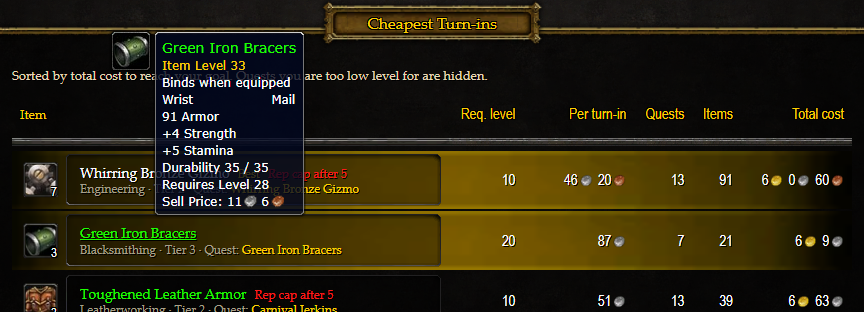
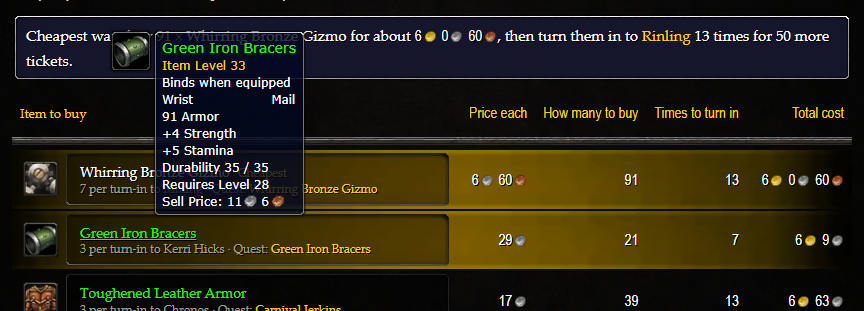
Simplify the web page for basic users
- Three numbered steps: load your prices, choose your reward, buy and turn in
- Only three inputs: reward, character level, tickets you already have;
  realm picker shows only when the file has more than one realm
- Removed "Show results", category, reputation and rep-cap inputs/warnings
  (reputation caps stay available in the CLI)
- Results start with a one-sentence answer and use plain columns:
  price each, how many to buy, times to turn in, total cost, plus the NPC
- Handles "already have enough tickets"
- README: describe the steps; refreshed screenshots

diff --git a/components/filters.js b/components/filters.js
@@ -1,5 +1,6 @@
-// Filters component: character level, tickets, goal (with its reward item), reputation, category,
-// realm, row limit and the reputation-cap toggle. Calls onChange(values, changedField).
+// "What do you want?" component: the reward to buy (with its preview), character level and tickets
+// already owned. A realm picker appears only when the loaded file has prices for more than one realm.
+// Calls onChange(values, changedField).
 (() => {
   const UI = (window.UI = window.UI || {});
 
@@ -8,48 +9,33 @@
     return Number.isFinite(n) && v !== "" ? n : fallback;
   };
 
-  UI.filters = function filters(root, {goals, defaultGoal, categories, maxLevel, onChange}) {
+  UI.filters = function filters(root, {goals, defaultGoal, maxLevel, onChange}) {
     root.innerHTML = `
       <div class="filters">
-        <label class="field">
-          <span class="field__label">Character level</span>
-          <input class="input" name="level" type="number" min="1" max="${maxLevel}" value="${maxLevel}">
-        </label>
-        <label class="field">
-          <span class="field__label">Tickets you have</span>
-          <input class="input" name="tickets" type="number" min="0" value="0">
-        </label>
-        <label class="field">
-          <span class="field__label">Faire reputation</span>
-          <input class="input" name="rep" type="number" min="0" value="0">
-        </label>
-        <label class="field">
-          <span class="field__label">Show results</span>
-          <input class="input" name="limit" type="number" min="1" max="50" value="10">
-        </label>
-        <label class="field filters__wide">
-          <span class="field__label">Goal</span>
+        <label class="field filters__goal">
+          <span class="field__label">Reward you want</span>
           <select class="select" name="goal"></select>
         </label>
-        <label class="field">
-          <span class="field__label">Category</span>
-          <select class="select" name="category"><option value="">All</option></select>
-        </label>
-        <label class="field">
-          <span class="field__label">Realm</span>
-          <select class="select" name="realm" disabled><option>Load a file first</option></select>
-        </label>
-        <label class="checkbox filters__check">
-          <input name="strict" type="checkbox">
-          <span>Respect reputation caps</span>
-        </label>
         <div class="reward" data-ref="reward" aria-live="polite"></div>
+        <label class="field">
+          <span class="field__label">Your character level</span>
+          <input class="input" name="level" type="number" min="1" max="${maxLevel}" value="${maxLevel}" inputmode="numeric">
+          <span class="field__hint">Hides turn-ins you are too low level for.</span>
+        </label>
+        <label class="field">
+          <span class="field__label">Prize tickets you already have</span>
+          <input class="input" name="tickets" type="number" min="0" value="0" inputmode="numeric">
+          <span class="field__hint">Leave at 0 if you have none.</span>
+        </label>
+        <label class="field" data-ref="realm-field" hidden>
+          <span class="field__label">Use prices from realm</span>
+          <select class="select" name="realm"></select>
+        </label>
       </div>`;
 
     const el = name => root.querySelector(`[name="${name}"]`);
     const goalByKey = Object.fromEntries(goals.map(g => [g.key, g]));
     goals.forEach(g => el("goal").add(new Option(`${g.name} (${g.tickets} tickets)`, g.key, false, g.key === defaultGoal)));
-    categories.forEach(c => el("category").add(new Option(c, c)));
 
     // Reward preview for the selected goal, like a quest reward box: icon, item link, redemption quest.
     function renderReward() {
@@ -60,7 +46,7 @@
           ${UI.wowhead.itemIcon(g)}
           <span class="item__name">
             <span>${UI.wowhead.itemLink(g)}</span>
-            <span class="item__meta">${g.tickets} Prize Tickets &middot; Quest: ${UI.wowhead.questLink({id: g.questId, name: `${g.tickets} Tickets - ${g.name}`})}</span>
+            <span class="item__meta">Costs ${g.tickets} Prize Tickets &middot; Quest: ${UI.wowhead.questLink({id: g.questId, name: `${g.tickets} Tickets - ${g.name}`})}</span>
           </span>
         </div>`;
     }
@@ -74,15 +60,13 @@
     root.addEventListener("change", e => e.target.name === "realm" && onChange(values(), "realm"));
 
     function values() {
+      const goal = goalByKey[el("goal").value];
       return {
+        goal,
+        target: goal.tickets,
         level: Math.min(maxLevel, Math.max(1, int(el("level").value, maxLevel))),
         tickets: Math.max(0, int(el("tickets").value, 0)),
-        rep: Math.max(0, int(el("rep").value, 0)),
-        limit: Math.max(1, int(el("limit").value, 10)),
-        target: goalByKey[el("goal").value].tickets,
-        category: el("category").value,
-        realm: el("realm").disabled ? null : el("realm").value,
-        strict: el("strict").checked,
+        realm: el("realm").options.length ? el("realm").value : null,
       };
     }
 
@@ -92,7 +76,7 @@
         const sel = el("realm");
         sel.innerHTML = "";
         names.forEach(n => sel.add(new Option(n, n)));
-        sel.disabled = !names.length;
+        root.querySelector('[data-ref="realm-field"]').hidden = names.length < 2;
       },
     };
   };

diff --git a/components/results-table.js b/components/results-table.js
@@ -1,4 +1,5 @@
-// Results table component: auction-house style list of the cheapest turn-ins.
+// Results component: a one-sentence answer, then an auction-house style list of every turn-in option,
+// cheapest first.
 (() => {
   const UI = (window.UI = window.UI || {});
   const {esc, wowhead} = UI;
@@ -12,17 +13,14 @@
 
   function itemCell(r, isBest) {
     const tags = [];
-    if (isBest) tags.push('<span class="tag tag--best">Best</span>');
-    if (!r.live) tags.push('<span class="tag tag--muted" title="No Auctionator price. Scan this item at the auction house.">No AH price</span>');
-    if (r.overCap) {
-      tags.push(`<span class="tag tag--warn" title="Tier ${r.tier} reputation caps after ${r.untilCap} quests. Check whether turn-ins past the cap still give tickets.">Rep cap after ${r.untilCap}</span>`);
-    }
+    if (isBest) tags.push('<span class="tag tag--best">Cheapest</span>');
+    if (!r.live) tags.push('<span class="tag tag--muted" title="Your Auctionator file has no price for this item. Search for it at the auction house, then /reload.">No price yet</span>');
     return `
       <div class="item">
-        ${wowhead.itemIcon(r, {count: r.qnt, category: r.category})}
+        ${wowhead.itemIcon(r, {category: r.category})}
         <span class="item__name">
           <span>${wowhead.itemLink(r)}${tags.join("")}</span>
-          <span class="item__meta">${esc(r.category)} &middot; Tier ${r.tier} &middot; ${questsLine(r)}</span>
+          <span class="item__meta">${r.qnt} per turn-in to ${esc(r.npc)} &middot; ${questsLine(r)}</span>
         </span>
       </div>`;
   }
@@ -31,15 +29,15 @@
 
   UI.resultsTable = function resultsTable(root) {
     root.innerHTML = `
+      <div class="summary tooltip" data-ref="summary" role="status" aria-live="polite"></div>
       <div class="table-wrap">
         <table class="ah-table">
           <thead>
             <tr>
-              <th scope="col">Item</th>
-              <th scope="col" class="num">Req. level</th>
-              <th scope="col" class="num">Per turn-in</th>
-              <th scope="col" class="num">Quests</th>
-              <th scope="col" class="num">Items</th>
+              <th scope="col">Item to buy</th>
+              <th scope="col" class="num">Price each</th>
+              <th scope="col" class="num">How many to buy</th>
+              <th scope="col" class="num">Times to turn in</th>
               <th scope="col" class="num">Total cost</th>
             </tr>
           </thead>
@@ -47,22 +45,34 @@
         </table>
       </div>`;
     const body = root.querySelector("tbody");
+    const summary = root.querySelector('[data-ref="summary"]');
 
     return {
-      render(rows, {limit, level, unlockLevels}) {
-        if (!rows.length) {
-          body.innerHTML = `<tr class="empty"><td colspan="6">No turn-ins available at level ${level} with these filters. Quests unlock at levels ${unlockLevels.join(", ")}.</td></tr>`;
+      render(rows, {goal, needed, hasPrices}) {
+        if (needed <= 0) {
+          summary.innerHTML = `You already have enough tickets for ${wowhead.itemLink(goal)}. Take them to Gelvas Grimegate at the Darkmoon Faire.`;
+          body.innerHTML = "";
           return;
         }
-        body.innerHTML = rows.slice(0, limit).map((r, i) => {
-          const best = i === 0 && r.total != null;
+        const best = rows.find(r => r.total != null);
+        if (!hasPrices) {
+          summary.textContent = "Load your Auctionator.lua in step 1 to see which turn-in is cheapest.";
+        } else if (best) {
+          summary.innerHTML = `Cheapest way: buy <strong>${best.items} &times; ${wowhead.itemLink(best)}</strong>
+            for about ${UI.money(best.total * 10000)}, then turn them in to <strong>${esc(best.npc)}</strong>
+            ${best.quests} time${best.quests === 1 ? "" : "s"} for ${needed} more ticket${needed === 1 ? "" : "s"}.`;
+        } else {
+          summary.textContent = "None of these items has a price in your Auctionator file yet. Search for them at the auction house, then /reload.";
+        }
+
+        body.innerHTML = rows.map(r => {
+          const isBest = r === best;
           return `
-          <tr class="${best ? "is-best" : ""}">
-            <td>${itemCell(r, best)}</td>
-            <td class="num level-req">${r.minLevel}</td>
-            <td class="num">${money(r.perTurn, 100)}</td>
-            <td class="num">${r.quests}</td>
+          <tr class="${isBest ? "is-best" : ""}">
+            <td>${itemCell(r, isBest)}</td>
+            <td class="num">${money(r.price, 100)}</td>
             <td class="num">${r.items}</td>
+            <td class="num">${r.quests}</td>
             <td class="num">${money(r.total, 10000)}</td>
           </tr>`;
         }).join("");

diff --git a/app.js b/app.js
@@ -1,6 +1,6 @@
 // App wiring: connects dmf.js (data + maths) to the UI components.
 (() => {
-  const {ITEMS, GOALS, MIN_LEVEL, MAX_LEVEL} = DMF;
+  const {ITEMS, GOALS, MAX_LEVEL} = DMF;
   // Folder to paste into the Windows file dialog (no account ID, so it's safe to publish)
   const WTF_PATH = "C:\\Program Files (x86)\\World of Warcraft\\_forever_\\WTF\\Account";
 
@@ -11,7 +11,6 @@
   const filters = UI.filters(document.getElementById("filters"), {
     goals: GOALS,
     defaultGoal: "box",
-    categories: [...new Set(ITEMS.map(i => i.category))],
     maxLevel: MAX_LEVEL,
     onChange(values, changed) {
       if (changed === "realm" && values.realm) applyRealm(values.realm);
@@ -22,18 +21,19 @@
   function applyRealm(name) {
     const prices = DMF.realmPrices(realms[name]);
     const n = DMF.applyPrices(ITEMS, prices);
+    const missing = ITEMS.length - n;
     loader.setStatus(
-      `Loaded ${Object.keys(prices).length} prices from realm "${name}". ${n} of ${ITEMS.length} turn-in items have prices; ` +
-      `items marked "No AH price" need an auction house scan in game and are listed last.`,
+      `Prices loaded (realm "${name}"). ` +
+      (missing ? `${missing} of ${ITEMS.length} items have no price yet; they're marked "No price yet" and listed last.`
+               : `All ${ITEMS.length} items have a price.`),
       "ok");
   }
 
   function render() {
     const v = filters.values();
-    const rows = DMF.calculate(ITEMS, {
-      target: v.target, rep: v.rep, strict: v.strict, tickets: v.tickets, category: v.category, level: v.level,
-    });
-    table.render(rows, {limit: v.limit, level: v.level, unlockLevels: MIN_LEVEL});
+    // The web page keeps it simple: no reputation-cap modelling (the CLI still has --rep / --strict-caps).
+    const rows = DMF.calculate(ITEMS, {target: v.target, tickets: v.tickets, level: v.level});
+    table.render(rows, {goal: v.goal, needed: v.target - v.tickets, hasPrices: !!realms});
   }
 
   async function loadFile(file) {
@@ -47,11 +47,13 @@
       applyRealm(names[0]);
       render();
     } catch (e) {
+      realms = null;
       loader.setLoaded(null);
       loader.setStatus(`Could not read ${file.name}: ${e.message}`, "error");
+      render();
     }
   }
 
-  loader.setStatus("No file loaded. Load Auctionator.lua to see prices; until then the list only shows quests and items needed.");
+  loader.setStatus("No file loaded yet.");
   render();
 })();

diff --git a/css/styles.css b/css/styles.css
@@ -407,12 +407,25 @@ code {
 
 .filters {
   display: grid;
-  grid-template-columns: repeat(auto-fit, minmax(150px, 1fr));
-  gap: 12px 16px;
-  align-items: end;
+  grid-template-columns: repeat(auto-fit, minmax(220px, 1fr));
+  gap: 14px 20px;
+  align-items: start;
 }
-.filters__wide { grid-column: span 2; }
-.filters__check { align-self: center; }
+.filters__goal { grid-column: 1 / -1; max-width: 520px; }
+.field[hidden] { display: none; }
+.field__hint {
+  font-size: 12px;
+  color: var(--muted);
+  text-shadow: 1px 1px 0 #000;
+}
+
+/* one-sentence answer above the results */
+.summary {
+  margin-bottom: 14px;
+  font-size: 15px;
+  line-height: 1.6;
+}
+.summary strong { font-weight: normal; color: var(--normal); }
 
 /* Selected goal's reward, laid out like a quest reward entry */
 .reward {
@@ -561,10 +574,8 @@ code {
   text-shadow: 1px 1px 0 #000;
 }
 .tag--best { color: var(--normal); }
-.tag--warn { color: var(--red); }
 .tag--muted { color: var(--disabled); }
 
-.level-req { color: var(--highlight); }
 
 /* ---------- Money: UI-GoldIcon / UI-SilverIcon / UI-CopperIcon ---------- */
 
@@ -623,5 +634,4 @@ code {
   .frame { padding: 44px 24px 26px; }
   .frame--dragon .frame__dragon { width: 88px; height: 88px; top: -22px; left: -20px; }
   .path-row { flex-direction: column; align-items: stretch; }
-  .filters__wide { grid-column: auto; }
 }

diff --git a/index.html b/index.html
@@ -21,18 +21,19 @@
   <main>
     <section class="frame frame--dragon" aria-labelledby="loader-title">
       <span class="frame__dragon" aria-hidden="true"></span>
-      <h2 class="frame__title" id="loader-title">Auctionator Prices</h2>
+      <h2 class="frame__title" id="loader-title">1. Load your prices</h2>
+      <p class="frame__note">Scan the auction house in game with the Auctionator addon, then type <code>/reload</code>. Then load its file here.</p>
       <div id="loader"></div>
     </section>
 
     <section class="frame" aria-labelledby="filters-title">
-      <h2 class="frame__title" id="filters-title">Your Character</h2>
+      <h2 class="frame__title" id="filters-title">2. Choose your reward</h2>
       <div id="filters"></div>
     </section>
 
     <section class="frame" aria-labelledby="results-title">
-      <h2 class="frame__title" id="results-title">Cheapest Turn-ins</h2>
-      <p class="frame__note">Sorted by total cost to reach your goal. Quests you are too low level for are hidden.</p>
+      <h2 class="frame__title" id="results-title">3. Buy and turn in</h2>
+      <p class="frame__note">Every way to earn the tickets, cheapest first. Buy the items at the auction house and hand them in at the Darkmoon Faire.</p>
       <div id="results"></div>
     </section>
   </main>

diff --git a/dmf.js b/dmf.js
@@ -38,6 +38,9 @@ const ITEMS = [
   name, id, category, tier, qnt, icon, quality, questList: quests.map(([id, name]) => ({id, name})),
   minLevel: MIN_LEVEL[tier-1], price: null, live: false,
 }));
+// Darkmoon Faire NPC who takes each category's turn-ins (warcrafttavern.com/forever/guides/darkmoon-faire).
+const NPC = {"Animal Parts": "Yebb Neblegear", "Blacksmithing": "Kerri Hicks", "Engineering": "Rinling", "Leatherworking": "Chronos"};
+for (const it of ITEMS) it.npc = NPC[it.category];
 const WOWHEAD_ITEM_URL = id => `https://www.wowhead.com/forever/item=${id}`;
 const WOWHEAD_QUEST_URL = id => `https://www.wowhead.com/forever/quest=${id}`;
 const ICON_URL = (icon, size = "medium") => `https://wow.zamimg.com/images/wow/icons/${size}/${icon}.jpg`;

diff --git a/README.md b/README.md
@@ -22,6 +22,15 @@ World of Warcraft\_forever_\WTF\Account\<ACCOUNT>\SavedVariables\Auctionator.lua
 
 The file is parsed entirely in your browser and is never uploaded.
 
+The page has three steps:
+
+1. **Load your prices**: your `Auctionator.lua` (scan the auction house in game first, then `/reload`).
+2. **Choose your reward**: the prize you want, your character level and any tickets you already have.
+3. **Buy and turn in**: one sentence with the cheapest option, then every option cheapest first, with
+   the price of each item, how many to buy, how many times to turn in, the total cost and the NPC to visit.
+
+The page keeps it simple and ignores reputation caps; the command line can take them into account.
+
 ## Command line
 
 Needs [Node.js](https://nodejs.org) 16+. No dependencies.
@@ -67,8 +76,8 @@ It finds the newest `Auctionator.lua` under `WOW_ROOT` (env var; defaults to the
 - Quest quantities, tiers, ticket values and reputation caps come from the
   [Warcraft Tavern DMF guide](https://www.warcrafttavern.com/forever/guides/darkmoon-faire/).
   Each quest gives 250 reputation and each tier caps at 500/1100/1700/2500/5999. It's unverified
-  whether turn-ins past a cap still give tickets, so over-cap routes are flagged (or excluded with
-  strict caps) rather than assumed.
+  whether turn-ins past a cap still give tickets, so the command line flags over-cap routes (or excludes
+  them with `--strict-caps`, given your `--rep`) rather than assuming. The website does not use caps.
 - Tier 5 Animal Parts: Evil Bat Eyes (quest 7903) and Glowing Scorpid Blood (quest 8222) are separate
   quests, so they're separate options.
 
